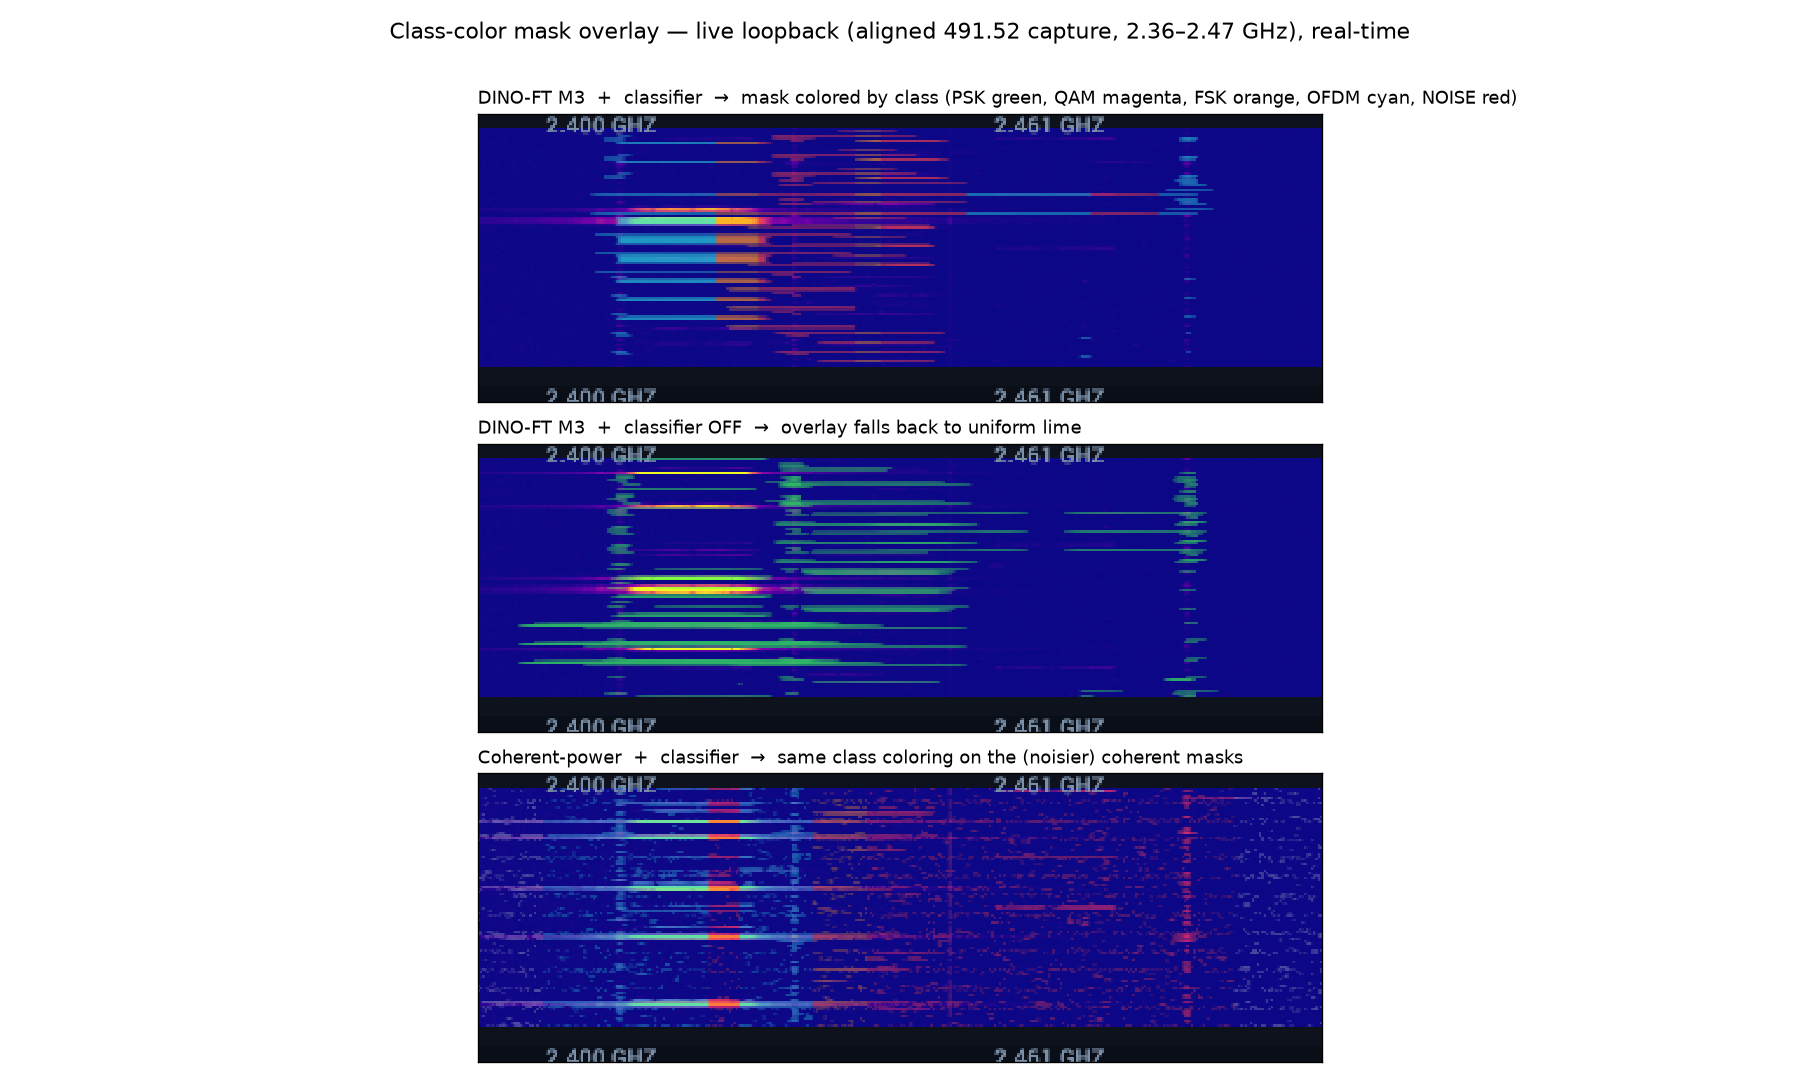
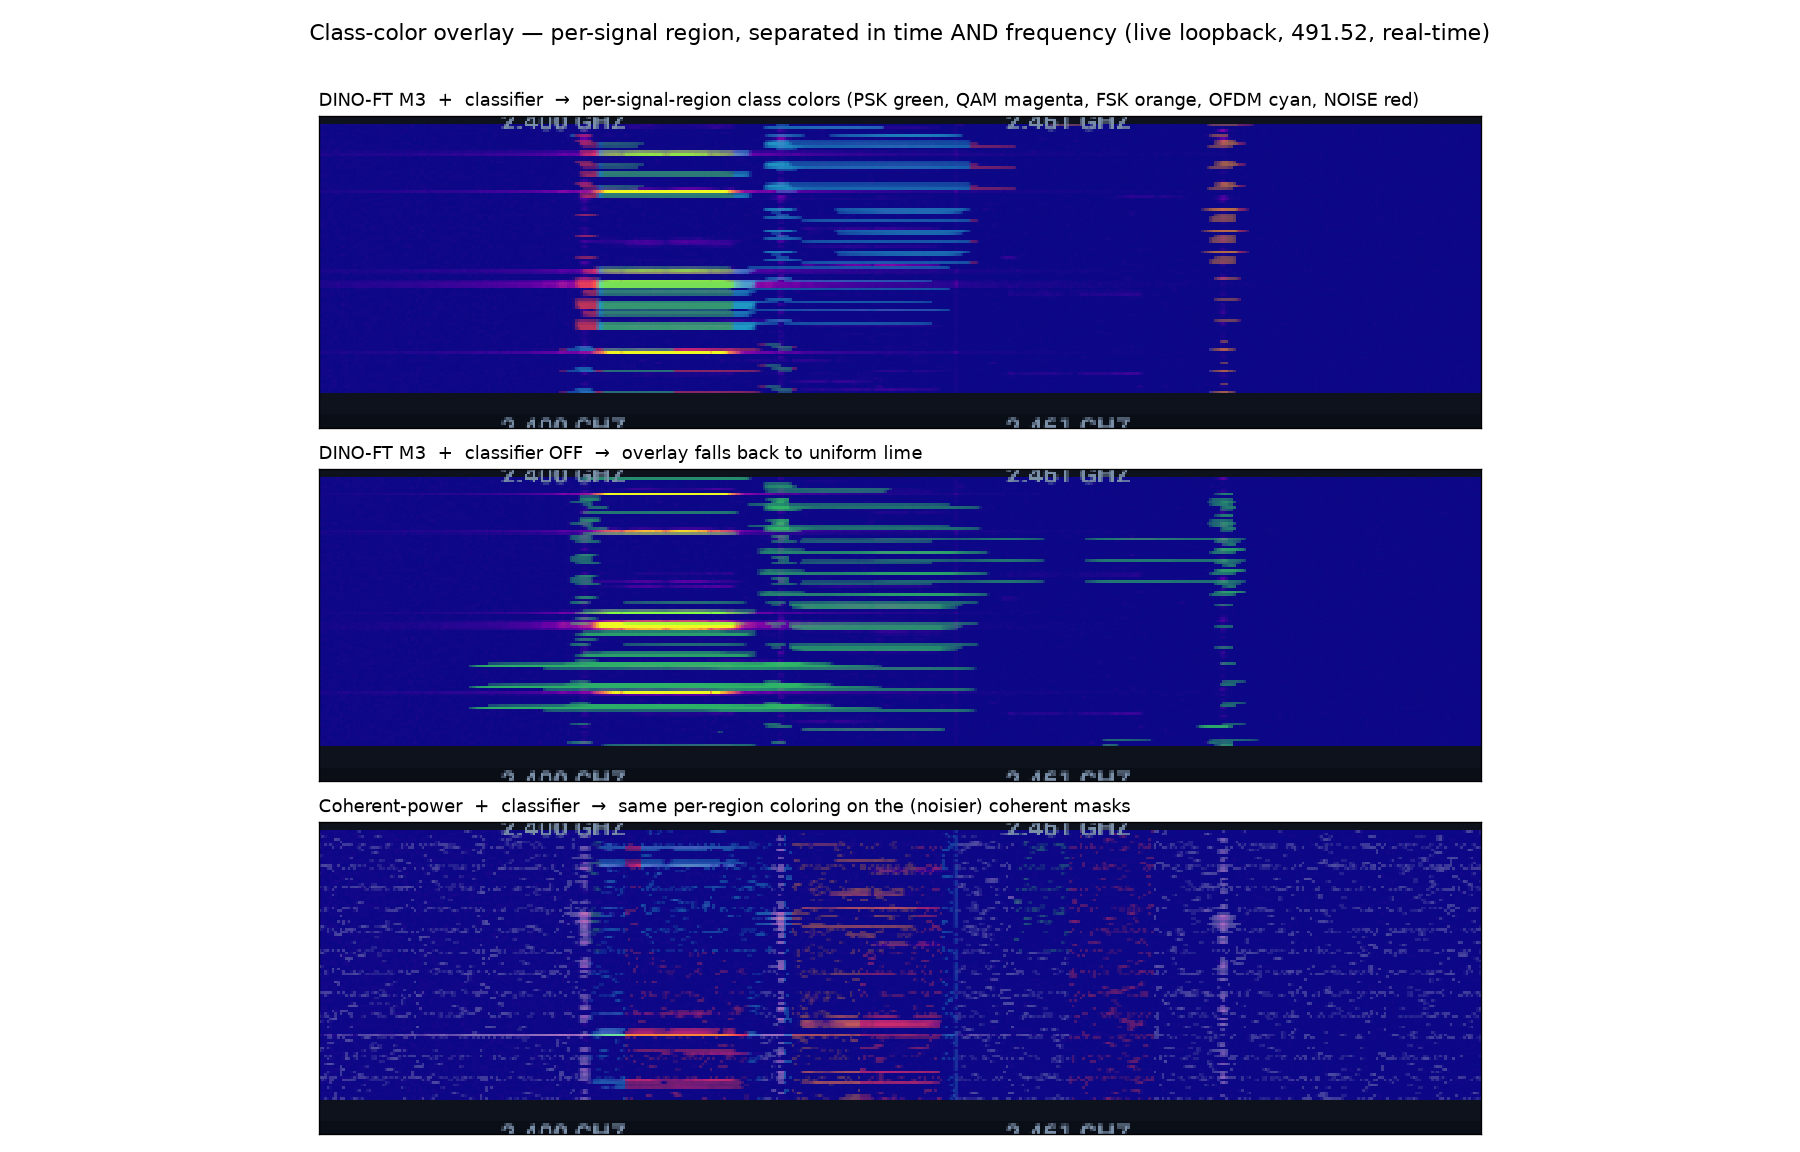
dino_ft: refresh class-overlay artifacts for per-region time+frequency coloring

Changed region(s): [[0.1556, 0.0, 0.84, 1.0], [0.6533, 0.275, 0.6844, 0.3056]]

diff --git a/applications/usrp_wideband_signal_detection/infocom_evals/signal_detection_experiments/dino_ft_class_overlay/README.md b/applications/usrp_wideband_signal_detection/infocom_evals/signal_detection_experiments/dino_ft_class_overlay/README.md
@@ -4,8 +4,11 @@ The "Color Mask by Class" dashboard toggle colors the detection-mask overlay by 
 predicted modulation class. Validated live on the network loopback (aligned 491.52 MSps capture,
 classify-only AMC daemon: VT-CNN2 + ResNet1D + T-PRIME, gate T-PRIME).
 
+Coloring is PER-SIGNAL REGION, separated in TIME and FREQUENCY: the daemon exports each decode's band
+[f_lo,f_hi]; the viz colors a pixel by the decode whose band contains it, and FREEZES the class into a
+parallel history ring at capture time so old waterfall rows keep their class (no whole-column recolor).
 Palette (5 distinct hues, legible on the blue waterfall): PSK green, QAM magenta, FSK orange, OFDM cyan,
-NOISE red; detected-but-unclassified columns show a neutral gray (no lime-vs-green clash, no blue-on-blue).
+NOISE red; detected-but-unclassified pixels show a neutral gray. Commits: 477f52a1 (region+time), 53c96560 (palette).
 
 Driver: `capture_overlay.sh` (env CONFIG_NAME / DAEMON / LABEL). Artifact: RSdrKitPhtsFgSsyX5K3Ca.
 
